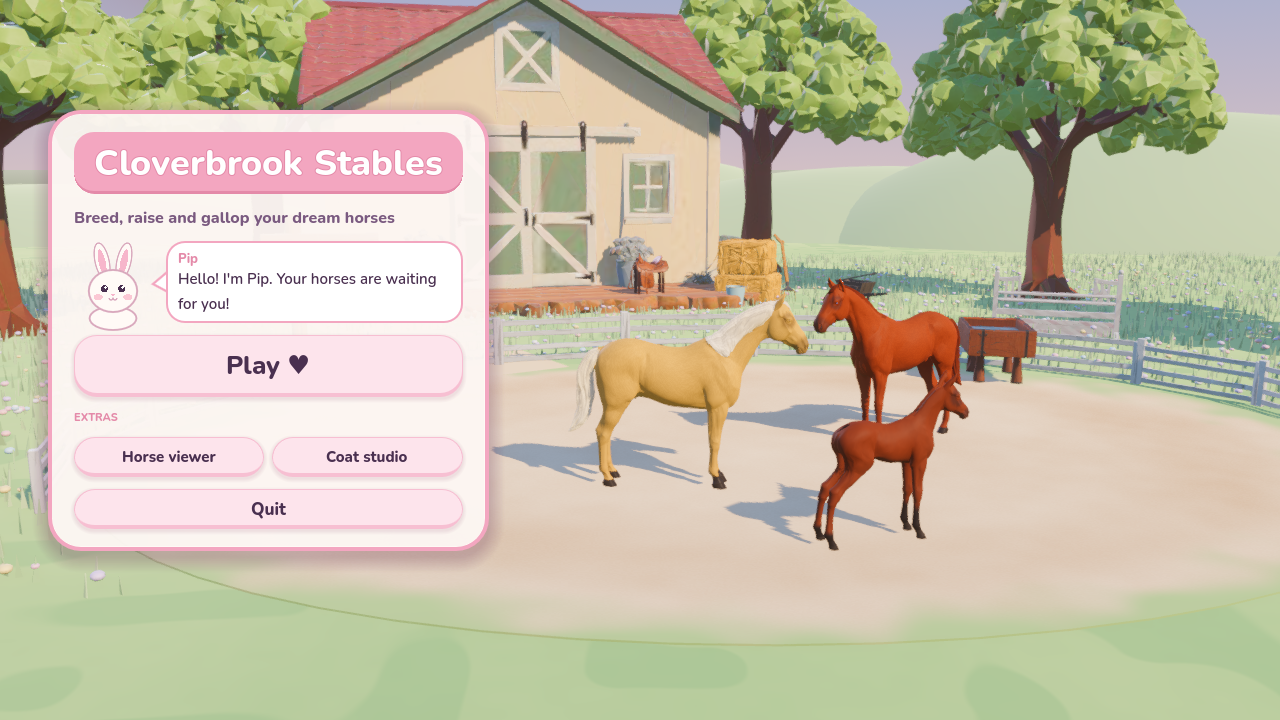
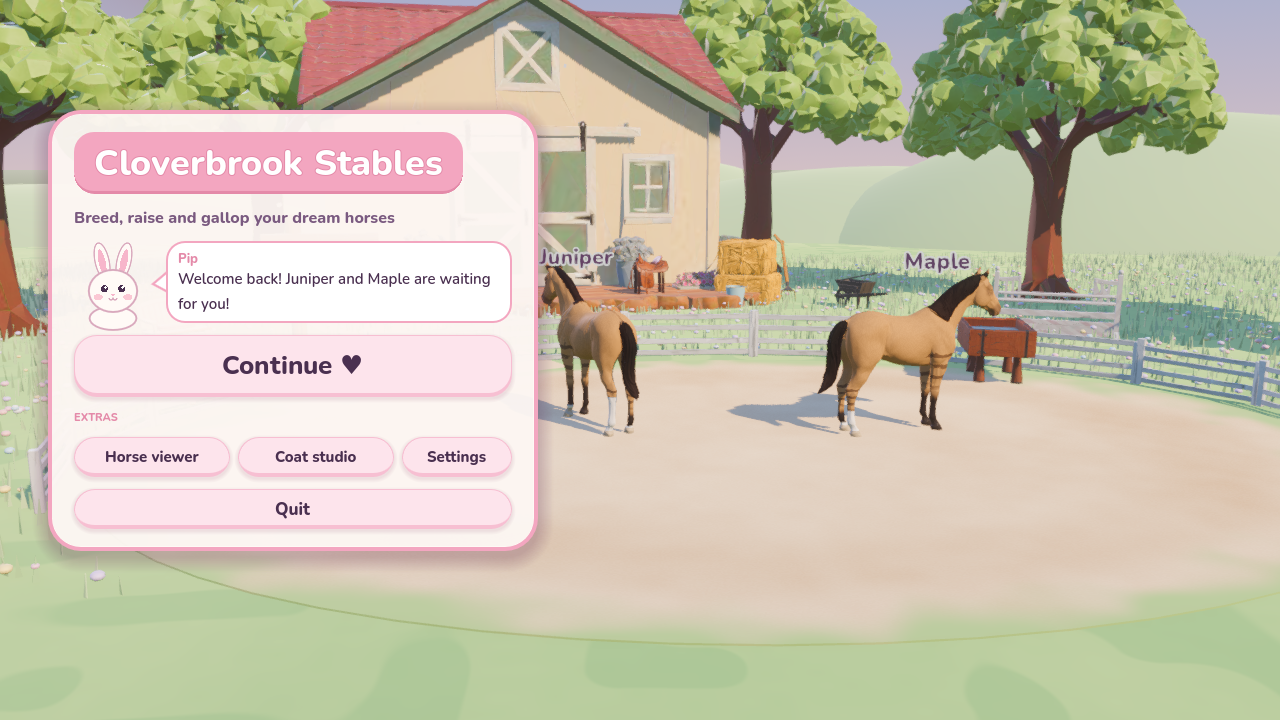
Show the player's own horses on the title screen and add settings
D-016 follow-up: the title yard loads the saved stable read-only and shows its
horses in the saved season with a personal greeting; a settings window sets
music and effects volume on separate buses and fullscreen, all remembered.

Claude-Session: https://claude.ai/code/session_01N8ARS7mN4tQdViRj4KN5GB

diff --git a/game/scripts/Scenes/MainMenu.cs b/game/scripts/Scenes/MainMenu.cs
@@ -1,3 +1,4 @@
+using System.Collections.Generic;
 using System.Linq;
 using System;
 using Cloverbrook.Game.DomainIntegration;
@@ -17,6 +18,7 @@ public partial class MainMenu : Node
         Audio.GameAudio.Ensure(GetTree());
         Audio.GameAudio.Music("music_yard");
         bool smoke = OS.GetCmdlineUserArgs().Contains("--smoke-test");
+        if (!smoke) _own = LoadOwnStable();
         HorseStage? stage = null;
         if (smoke)
         {
@@ -34,12 +36,15 @@ public partial class MainMenu : Node
             AddChild(yard);
             yard.SetCameraHome(new Vector3(-2.6f, 3.0f, 10.5f), new Vector3(-1.2f, 0.9f, -1.0f));
             yard.WanderCentre = new Vector3(0.6f, 0, -0.8f); yard.WanderRadius = new Vector2(3.6f, 2.6f);
-            yard.SetHorses(new (string, VisualDescriptor?)[]
+            // Your own saved horses when a stable exists (read-only load), otherwise sample horses.
+            if (_own.Horses.Count > 0) yard.SetHorses(_own.Horses, _own.Names);
+            else yard.SetHorses(new (string, VisualDescriptor?)[]
             {
                 ("menu-palomino", FixtureLibrary.Get("palomino", false)),
                 ("menu-chestnut", FixtureLibrary.Get("chestnut", false)),
                 ("menu-bay-foal", FixtureLibrary.Get("bay", true)),
             });
+            if (_own.Season >= 0) yard.SetSeason(_own.Season);
             if (OS.GetCmdlineUserArgs().FirstOrDefault(a => a.StartsWith("--menu-preview=", StringComparison.Ordinal)) is { } preview)
                 _ = PreviewAsync(yard, preview["--menu-preview=".Length..]);
         }
@@ -63,9 +68,14 @@ public partial class MainMenu : Node
         tagline.AddThemeColorOverride("font_color", CozyTheme.SoftText);
         box.AddChild(tagline);
         var greeting = new BunnySpeaker { CustomMinimumSize = new Vector2(320, 0) };
-        greeting.Say("Hello! I'm Pip. Your horses are waiting for you!");
+        greeting.Say(_own.Names.Count switch
+        {
+            0 => "Hello! I'm Pip. Your very own stable is ready. Shall we meet your horses?",
+            1 => $"Welcome back! {_own.Names.Values.First()} has been waiting for you!",
+            _ => $"Welcome back! {string.Join(", ", _own.Names.Values.Take(_own.Names.Count - 1))} and {_own.Names.Values.Last()} are waiting for you!",
+        });
         box.AddChild(greeting);
-        var play = new Button { Text = "Play ♥", CustomMinimumSize = new Vector2(320, 62) };
+        var play = new Button { Text = _own.Names.Count > 0 ? "Continue ♥" : "New stable ♥", CustomMinimumSize = new Vector2(320, 62) };
         play.AddThemeFontSizeOverride("font_size", 26);
         play.Pressed += () => GetTree().ChangeSceneToFile("res://scenes/stable_day.tscn");
         box.AddChild(play);
@@ -74,19 +84,79 @@ public partial class MainMenu : Node
         var extras = new HBoxContainer(); extras.AddThemeConstantOverride("separation", 8);
         AddSmallButton(extras, "Horse viewer", "res://scenes/viewer.tscn");
         AddSmallButton(extras, "Coat studio", "res://scenes/appearance_demo.tscn");
-        extras.AddChild(Audio.GameAudio.MuteButton());
+        var settings = new Button { Text = "Settings", CustomMinimumSize = new Vector2(110, 40) };
+        settings.AddThemeFontSizeOverride("font_size", 15);
+        settings.Pressed += () => _settings.Visible = true;
+        extras.AddChild(settings);
         box.AddChild(extras);
         var quit = new Button { Text = "Quit", CustomMinimumSize = new Vector2(320, 40) }; quit.Pressed += () => GetTree().Quit(); box.AddChild(quit);
+        BuildSettings(root);
 
         // CI smoke test: prove the project boots, links the domain and presents a horse.
         if (stage != null)
             _ = RunWalkVariantSmokeTest(stage);
     }
 
+    private (List<(string, VisualDescriptor?)> Horses, Dictionary<string, string> Names, int Season) _own = (new(), new(), -1);
+    private Control _settings = null!;
+
+    /// <summary>Read the player's saved stable without writing anything (AtomicSaveStore.Load is read-only).</summary>
+    private static (List<(string, VisualDescriptor?)>, Dictionary<string, string>, int) LoadOwnStable()
+    {
+        var horses = new List<(string, VisualDescriptor?)>(); var names = new Dictionary<string, string>();
+        try
+        {
+            var path = ProjectSettings.GlobalizePath("user://stable-management/stable.clvr");
+            if (!System.IO.File.Exists(path)) return (horses, names, -1);
+            var state = new Cloverbrook.Domain.AtomicSaveStore(path).Load().State;
+            foreach (var h in state.Horses.Where(h => h.OwnerId.Equals(state.PlayerOwnerId) && !Cloverbrook.Domain.HorseMarket.IsSold(h)
+                         && h.LifeState.Stage != Cloverbrook.Domain.LifeStage.Unborn).OrderBy(h => h.Name, StringComparer.Ordinal).Take(5))
+            {
+                var resolution = new Cloverbrook.Domain.PhenotypeResolver().ResolveForPresentation(h, DomainBridge.Matrix, VisualCatalog.Instance.Version, "canonical-anatomy.v1");
+                var (visual, _) = DomainBridge.FromPresentation(resolution);
+                if (visual == null) continue;
+                horses.Add((h.HorseId.ToString(), visual)); names[h.HorseId.ToString()] = h.Name;
+            }
+            return (horses, names, state.Header.CalendarDay / Cloverbrook.Domain.StableCalendar.DaysPerSeason);
+        }
+        catch (Exception ex)
+        {
+            GD.PushWarning("[MainMenu] saved stable not shown: " + ex.Message);
+            return (new(), new(), -1);
+        }
+    }
+
+    private void BuildSettings(Control root)
+    {
+        _settings = CozyTheme.Dialog(root, "Settings", 460, out var body, out var buttons, out _);
+        Slider(body, "Music", Audio.GameAudio.Volume("Music"), v => Audio.GameAudio.SetVolume("Music", v));
+        Slider(body, "Sound effects", Audio.GameAudio.Volume("SFX"), v => { Audio.GameAudio.SetVolume("SFX", v); Audio.GameAudio.Play("ui_toggle"); });
+        var fullscreen = new CheckButton { Text = "Fullscreen", ButtonPressed = DisplayServer.WindowGetMode() == DisplayServer.WindowMode.Fullscreen };
+        fullscreen.Toggled += Audio.GameAudio.SetFullscreen;
+        body.AddChild(fullscreen);
+        var done = new Button { Text = "Done", CustomMinimumSize = new Vector2(130, 46) };
+        done.Pressed += () => _settings.Visible = false;
+        buttons.AddChild(done);
+        CozyTheme.FinishDialog(body, buttons);
+    }
+
+    private static void Slider(Container body, string label, float value, Action<float> changed)
+    {
+        var row = new HBoxContainer(); row.AddThemeConstantOverride("separation", 12);
+        var name = CozyTheme.Title(label, 16); name.CustomMinimumSize = new Vector2(140, 0);
+        row.AddChild(name);
+        var slider = new HSlider { MinValue = 0, MaxValue = 1, Step = 0.05, Value = value, SizeFlagsHorizontal = Control.SizeFlags.ExpandFill,
+            SizeFlagsVertical = Control.SizeFlags.ShrinkCenter, CustomMinimumSize = new Vector2(220, 24) };
+        slider.DragEnded += _ => changed((float)slider.Value);
+        row.AddChild(slider);
+        body.AddChild(row);
+    }
+
     /// <summary>--menu-preview=FILE: screenshot the title screen after the yard has settled.</summary>
     private async System.Threading.Tasks.Task PreviewAsync(Stable.StableYard yard, string file)
     {
         while (yard.ElapsedSeconds < 14) await ToSignal(GetTree(), SceneTree.SignalName.ProcessFrame);
+        if (OS.GetCmdlineUserArgs().Contains("--menu-preview-settings")) { _settings.Visible = true; await ToSignal(GetTree(), SceneTree.SignalName.ProcessFrame); }
         await ToSignal(RenderingServer.Singleton, RenderingServer.SignalName.FramePostDraw);
         GetViewport().GetTexture().GetImage().SavePng(file);
         GD.Print("[menu-preview] OK " + file);

diff --git a/game/scripts/Audio/GameAudio.cs b/game/scripts/Audio/GameAudio.cs
@@ -33,11 +33,20 @@ public partial class GameAudio : Node
     private void Setup(SceneTree tree)
     {
         var config = new ConfigFile();
-        if (config.Load(SettingsPath) == Error.Ok) _muted = (bool)config.GetValue("audio", "muted", false);
-        _music = new AudioStreamPlayer { VolumeDb = -9 }; AddChild(_music);
-        _ambience = new AudioStreamPlayer { VolumeDb = -16 }; AddChild(_ambience);
-        _loop = new AudioStreamPlayer { VolumeDb = -8 }; AddChild(_loop);
-        for (var i = 0; i < 6; i++) { var p = new AudioStreamPlayer { VolumeDb = -6 }; AddChild(p); _sfx.Add(p); }
+        float music = 0.8f, effects = 0.9f;
+        if (config.Load(SettingsPath) == Error.Ok)
+        {
+            _muted = (bool)config.GetValue("audio", "muted", false);
+            music = (float)config.GetValue("audio", "music", music);
+            effects = (float)config.GetValue("audio", "effects", effects);
+            if ((bool)config.GetValue("video", "fullscreen", false)) DisplayServer.WindowSetMode(DisplayServer.WindowMode.Fullscreen);
+        }
+        EnsureBus("Music"); EnsureBus("SFX");
+        _music = new AudioStreamPlayer { VolumeDb = -9, Bus = "Music" }; AddChild(_music);
+        _ambience = new AudioStreamPlayer { VolumeDb = -16, Bus = "Music" }; AddChild(_ambience);
+        _loop = new AudioStreamPlayer { VolumeDb = -8, Bus = "SFX" }; AddChild(_loop);
+        for (var i = 0; i < 6; i++) { var p = new AudioStreamPlayer { VolumeDb = -6, Bus = "SFX" }; AddChild(p); _sfx.Add(p); }
+        SetBusVolume("Music", music); SetBusVolume("SFX", effects);
         tree.NodeAdded += OnNodeAdded;
         ApplyMute();
     }
@@ -114,6 +123,41 @@ public partial class GameAudio : Node
         var config = new ConfigFile(); config.Load(SettingsPath);
         config.SetValue("audio", "muted", muted); config.Save(SettingsPath);
         self.ApplyMute();
+    }
+
+    private static void EnsureBus(string name)
+    {
+        if (AudioServer.GetBusIndex(name) >= 0) return;
+        AudioServer.AddBus();
+        var index = AudioServer.BusCount - 1;
+        AudioServer.SetBusName(index, name);
+        AudioServer.SetBusSend(index, "Master");
+    }
+
+    private static void SetBusVolume(string bus, float linear)
+    {
+        var index = AudioServer.GetBusIndex(bus);
+        if (index < 0) return;
+        AudioServer.SetBusVolumeDb(index, Mathf.LinearToDb(Mathf.Max(linear, 0.0001f)));
+        AudioServer.SetBusMute(index, linear <= 0.001f);
+    }
+
+    public static float Volume(string bus) => AudioServer.GetBusIndex(bus) is var i and >= 0 && !AudioServer.IsBusMute(i)
+        ? Mathf.DbToLinear(AudioServer.GetBusVolumeDb(i)) : 0f;
+
+    /// <summary>Set and remember a bus volume (0-1): "Music" or "SFX".</summary>
+    public static void SetVolume(string bus, float linear)
+    {
+        SetBusVolume(bus, linear);
+        var config = new ConfigFile(); config.Load(SettingsPath);
+        config.SetValue("audio", bus == "Music" ? "music" : "effects", linear); config.Save(SettingsPath);
+    }
+
+    public static void SetFullscreen(bool on)
+    {
+        DisplayServer.WindowSetMode(on ? DisplayServer.WindowMode.Fullscreen : DisplayServer.WindowMode.Windowed);
+        var config = new ConfigFile(); config.Load(SettingsPath);
+        config.SetValue("video", "fullscreen", on); config.Save(SettingsPath);
     }
 
     private void ApplyMute() => AudioServer.SetBusMute(AudioServer.GetBusIndex("Master"), _muted);

diff --git a/game/scripts/UI/CozyTheme.cs b/game/scripts/UI/CozyTheme.cs
@@ -93,6 +93,14 @@ public static class CozyTheme
         t.SetStylebox("panel", "TooltipPanel", popup);
         t.SetColor("font_color", "TooltipLabel", Text);
         t.SetColor("font_color", "Label", Text);
+        // Sliders: rosy track and fill with a round white knob.
+        var track = Box(Blush, 6, 0); track.ContentMarginTop = track.ContentMarginBottom = 5; track.BorderColor = Border; track.SetBorderWidthAll(1);
+        var fill = Box(Accent, 6, 0); fill.ContentMarginTop = fill.ContentMarginBottom = 5;
+        t.SetStylebox("slider", "HSlider", track);
+        t.SetStylebox("grabber_area", "HSlider", fill);
+        t.SetStylebox("grabber_area_highlight", "HSlider", fill);
+        t.SetIcon("grabber", "HSlider", Icons.Knob(false));
+        t.SetIcon("grabber_highlight", "HSlider", Icons.Knob(true));
         return t;
     }
 
@@ -243,6 +251,14 @@ public static class CozyTheme
             for (var y = 0; y < h; y++) for (var x = 0; x < w; x++) image.SetPixel(x, y, shade(new Vector2(x + 0.5f, y + 0.5f)));
             return ImageTexture.CreateFromImage(image);
         }
+        public static ImageTexture Knob(bool hot) => Paint(26, 26, p =>
+        {
+            var c = new Color(0, 0, 0, 0);
+            c = Over(c, new Color(0.6f, 0.3f, 0.45f, 0.25f), Coverage((p - new Vector2(13, 14.5f)).Length() - 10f));
+            c = Over(c, Colors.White, Coverage((p - new Vector2(13, 13)).Length() - 10f));
+            c = Over(c, hot ? AccentDeep : Accent, Coverage((p - new Vector2(13, 13)).Length() - 4.5f));
+            return c;
+        });
         public static ImageTexture Toggle(bool on, float alpha = 1f) => Paint(48, 28, p =>
         {
             var c = new Color(0, 0, 0, 0);

diff --git a/STATUS.md b/STATUS.md
@@ -49,6 +49,7 @@ Goal: stop the stable looking like a text game. (1) portraits of every horse, (2
 - [x] D-015: Blender-authored gallop (Light + Stock, animation-only GLBs) and a 3D practice race (`RaceView`) above the lanes. Review sheet in `docs/visual/evidence/gallop-2026-10-13/`.
 - [x] Polish: breeding pickers show names under MARE/STALLION captions, gallop picker shows portraits, race camera stops short of the line so the finish is in view, shutdown leak warnings fixed. Meshy tool now enforces the owner's 350-credit reserve (balance 863). A topiary attempt failed at Meshy (foliage mesh repair), not charged.
 - [x] D-016: seasons in the yard (spring blossom, summer, autumn leaves, winter snow; HUD "Spring · Day N" + year) and a Stable Journal of 12 ribbons derived from the save, with a "New ribbon" toast.
+- [x] Title screen shows the player's own saved horses (read-only `AtomicSaveStore.Load`), "Continue"/"New stable", Pip greets them by name, in the saved season. Settings window (music and effects volume on separate buses, fullscreen), remembered in `user://settings.cfg`; themed sliders.
 - [ ] Owner: bush/foliage via the Meshy web app's free retries (prompt in the hand-off); everything else in the D-012–D-015 list is done.
 
 ## Animation playback fixes (owner request 2026-10-13)
